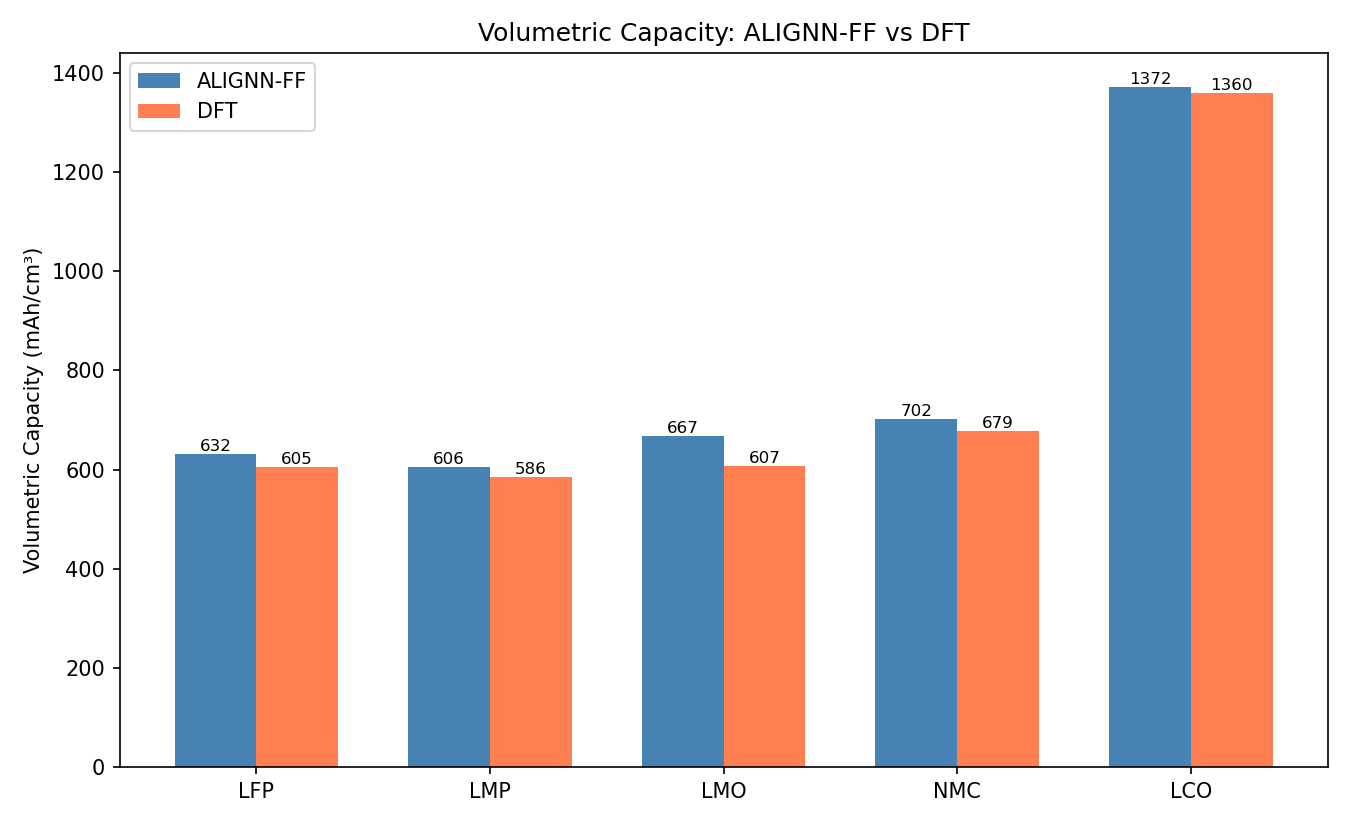
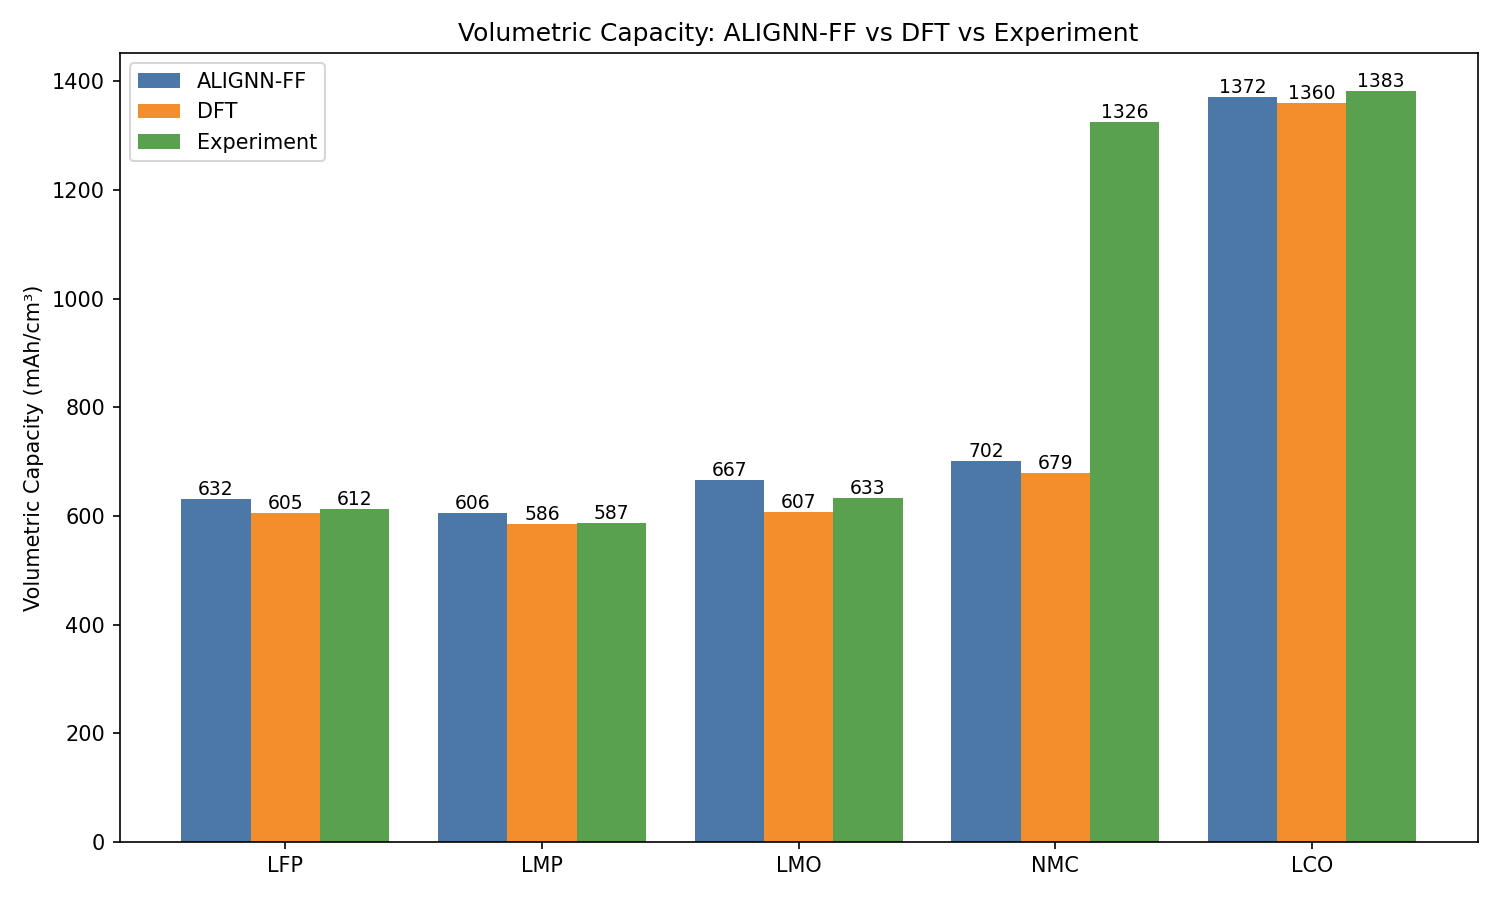
Add experimental column to voltage and capacity summary plots
Regenerated voltage_summary.png and capacity_summary.png with a third
'Experiment' bar alongside ALIGNN-FF and DFT. Experimental voltages are
literature quasi-equilibrium/plateau values and experimental capacities
are theoretical Q_grav * density. Added make_summary_plots.py as the
source of truth for regenerating the plots.

diff --git a/batterymat_jae/screening_cathode/analysis/make_summary_plots.py b/batterymat_jae/screening_cathode/analysis/make_summary_plots.py
@@ -1,0 +1,85 @@
+"""Regenerate voltage_summary.png and capacity_summary.png with a third
+Experimental column alongside ALIGNN-FF and DFT values.
+
+Experimental voltages come from the literature compiled in
+screening_cathode_analysis.md. Capacities use the theoretical crystallographic
+volumetric capacity (Q_grav * density), consistent with the DFT/ALIGNN-FF bars
+which are also theoretical (full delithiation on the relaxed/unrelaxed cell).
+"""
+import matplotlib.pyplot as plt
+import numpy as np
+
+MATERIALS = ["LFP", "LMP", "LMO", "NMC", "LCO"]
+
+# ALIGNN-FF and DFT values reproduced from the previous summary plots.
+AVG_V_ALIGNN = [3.49, 3.17, 4.07, 4.18, 3.84]
+AVG_V_DFT    = [3.60, 3.91, 4.08, 4.40, 4.18]
+MAX_V_ALIGNN = [3.74, 3.60, 4.42, 4.77, 5.06]
+MAX_V_DFT    = [3.99, 4.34, 4.41, 5.03, 4.78]
+CAP_ALIGNN   = [632, 606, 667, 702, 1372]
+CAP_DFT      = [605, 586, 607, 679, 1360]
+
+# Experimental references (see screening_cathode_analysis.md for citations).
+# Avg: quasi-equilibrium average discharge voltage (GITT / low C-rate).
+# Max: highest plateau voltage reported in galvanostatic cycling.
+AVG_V_EXP = [3.42, 4.10, 4.05, 3.70, 4.05]
+MAX_V_EXP = [3.45, 4.10, 4.17, 4.20, 4.17]
+
+# Theoretical volumetric capacity (Q_grav [mAh/g] * density [g/cm^3]).
+# LFP 170*3.60; LMP 171*3.43; LMO 148*4.28 (1 Li/f.u. reversible);
+# NMC 278*4.77 (NMC-111 full delithiation); LCO 274*5.05.
+CAP_EXP = [612, 587, 633, 1326, 1383]
+
+
+def grouped_bar(ax, labels, groups, title, ylabel, ylim=None):
+    names = list(groups.keys())
+    values = [groups[n] for n in names]
+    x = np.arange(len(labels))
+    width = 0.27
+    offsets = np.linspace(-width, width, len(names))
+    colors = ["#4C78A8", "#F28E2B", "#59A14F"]
+    for off, name, vals, color in zip(offsets, names, values, colors):
+        bars = ax.bar(x + off, vals, width, label=name, color=color)
+        for b, v in zip(bars, vals):
+            ax.text(b.get_x() + b.get_width() / 2, v, f"{v:.2f}" if ylim else f"{int(round(v))}",
+                    ha="center", va="bottom", fontsize=9)
+    ax.set_xticks(x)
+    ax.set_xticklabels(labels)
+    ax.set_ylabel(ylabel)
+    ax.set_title(title)
+    if ylim is not None:
+        ax.set_ylim(*ylim)
+    ax.legend()
+
+
+# Voltage summary (two panels)
+fig, axes = plt.subplots(1, 2, figsize=(14, 5.5))
+grouped_bar(
+    axes[0], MATERIALS,
+    {"ALIGNN-FF": AVG_V_ALIGNN, "DFT": AVG_V_DFT, "Experiment": AVG_V_EXP},
+    "Average Voltage: ALIGNN-FF vs DFT vs Experiment",
+    "Average Voltage (V)", ylim=(0, 6),
+)
+grouped_bar(
+    axes[1], MATERIALS,
+    {"ALIGNN-FF": MAX_V_ALIGNN, "DFT": MAX_V_DFT, "Experiment": MAX_V_EXP},
+    "Max Voltage: ALIGNN-FF vs DFT vs Experiment",
+    "Max Voltage (V)", ylim=(0, 8),
+)
+fig.tight_layout()
+fig.savefig("voltage_summary.png", dpi=150)
+plt.close(fig)
+
+# Capacity summary (single panel)
+fig, ax = plt.subplots(figsize=(10, 6))
+grouped_bar(
+    ax, MATERIALS,
+    {"ALIGNN-FF": CAP_ALIGNN, "DFT": CAP_DFT, "Experiment": CAP_EXP},
+    "Volumetric Capacity: ALIGNN-FF vs DFT vs Experiment",
+    "Volumetric Capacity (mAh/cm³)",
+)
+fig.tight_layout()
+fig.savefig("capacity_summary.png", dpi=150)
+plt.close(fig)
+
+print("Wrote voltage_summary.png and capacity_summary.png")

diff --git a/README.md b/README.md
@@ -187,8 +187,9 @@ batterymat_jae/
 │   ├── analysis/             # All plots and analysis
 │   │   ├── voltage_curve_JVASP-XXXXX.png   # Per-material line plots
 │   │   ├── discharge_curve_JVASP-XXXXX.png # Per-material staircase plots
-│   │   ├── voltage_summary.png             # ALIGNN-FF vs DFT voltage comparison
-│   │   ├── capacity_summary.png            # ALIGNN-FF vs DFT volumetric capacity
+│   │   ├── voltage_summary.png             # ALIGNN-FF vs DFT vs Experiment (avg/max V)
+│   │   ├── capacity_summary.png            # ALIGNN-FF vs DFT vs Experiment (vol. capacity)
+│   │   ├── make_summary_plots.py           # Regenerates the two summary plots
 │   │   └── screening_cathode_analysis.md   # DFT hull voltage + vol. capacity vs experiment
 │   └── dft_inputs/           # VASP input directories
 │       └── JVASP-XXXXX-ABBREV/

diff --git a/batterymat_jae/screening_cathode/analysis/screening_cathode_analysis.md b/batterymat_jae/screening_cathode/analysis/screening_cathode_analysis.md
@@ -168,7 +168,7 @@ A larger supercell (3×3×3) and/or hybrid functional (HSE06) would improve the 
 
 ## Part 2: Experimental Volumetric Capacity Reference
 
-The volumetric capacity in `capacity_summary.png` compares ALIGNN-FF (unrelaxed JARVIS volumes) against DFT (relaxed CONTCAR volumes). Below are the experimentally reported values from the literature for comparison.
+The volumetric capacity in `capacity_summary.png` compares ALIGNN-FF (unrelaxed JARVIS volumes), DFT (relaxed CONTCAR volumes), and the theoretical experimental value (Q_grav × ρ) as a third bar. Below are the experimentally reported values from the literature used for that column and for broader comparison.
 
 **Formula:** Q_vol (Ah/L) = Q_grav (mAh/g) × ρ (g/cm³), where ρ is the crystallographic density of the fully lithiated phase.
 
